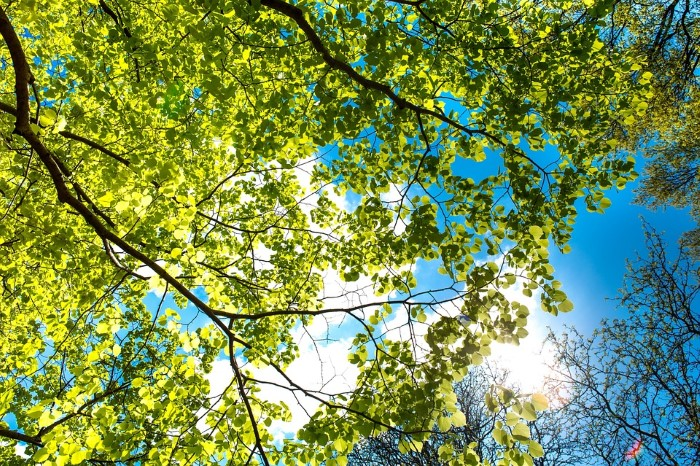
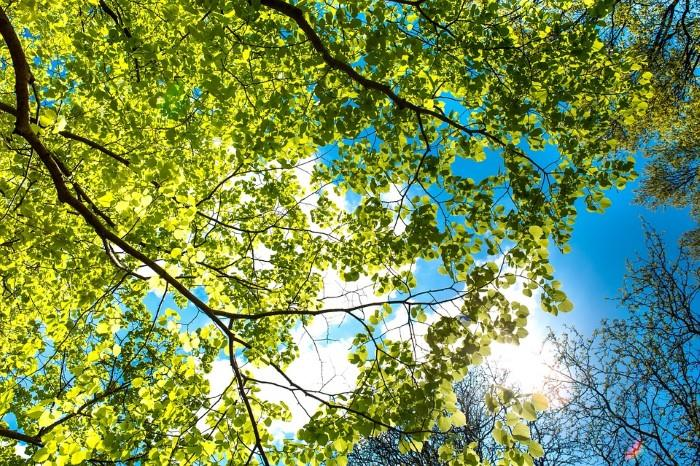
image size

diff --git a/style.css b/style.css
@@ -25,7 +25,7 @@ body, html {
 }
 .my-info{
 
-    background-image: url(frame-3068395_960_720.png);
+    background-image: url(frame-3068395_960_720.jpg);
     background-repeat: no-repeat;
     background-size: 100% 100%;
     position: absolute;
